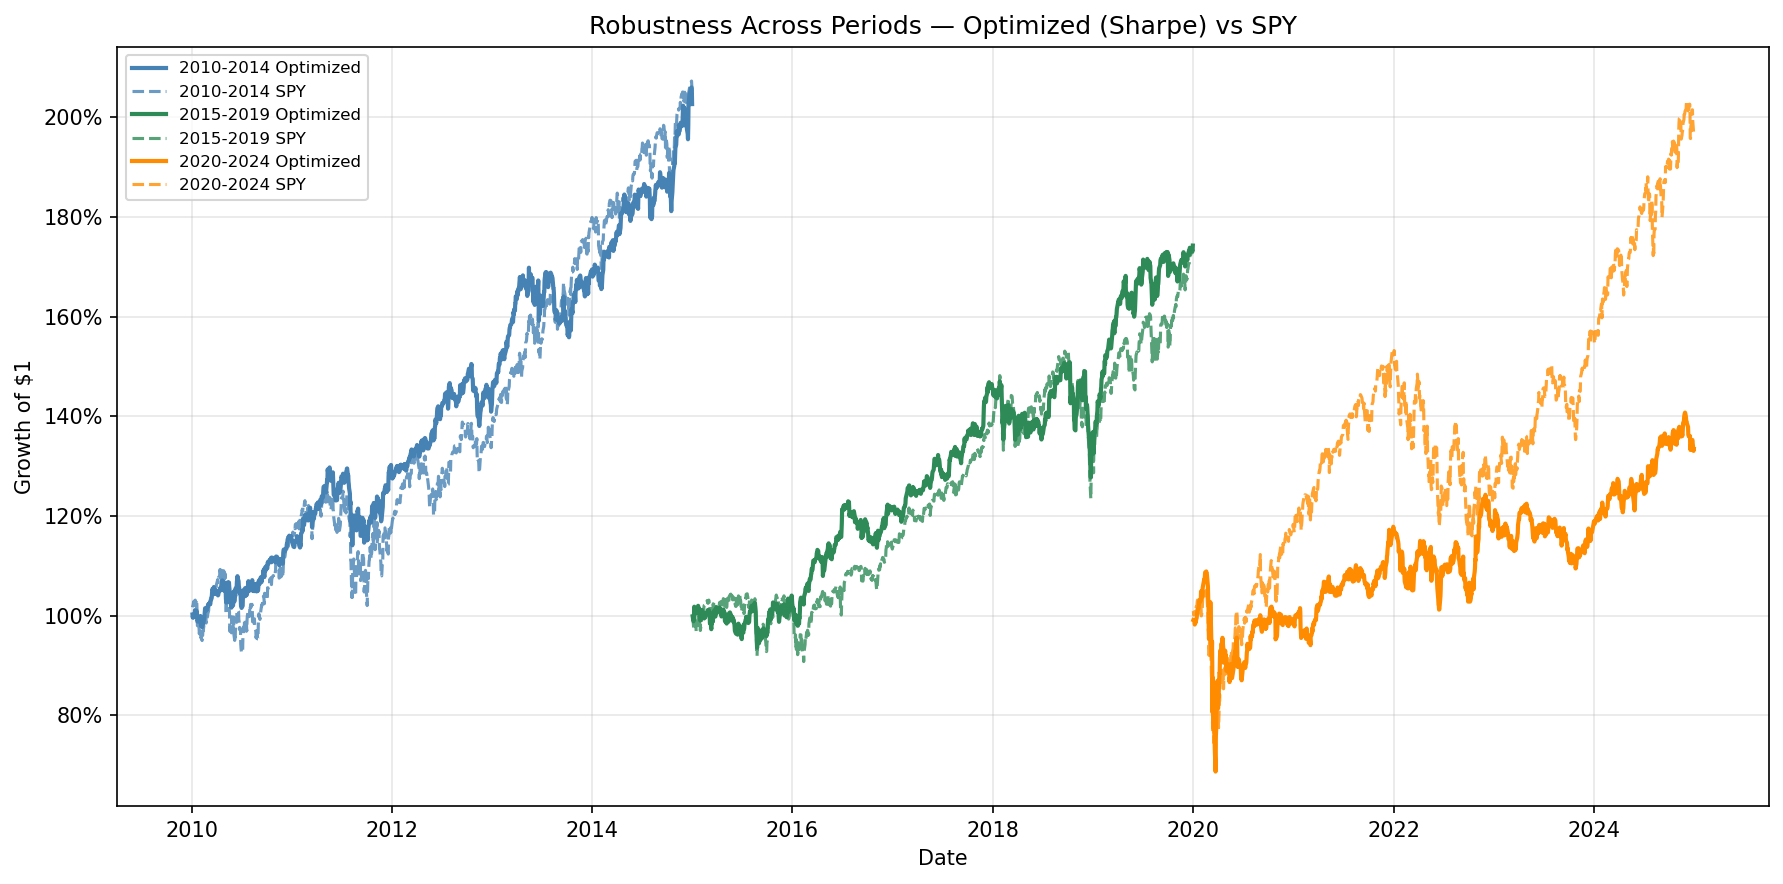
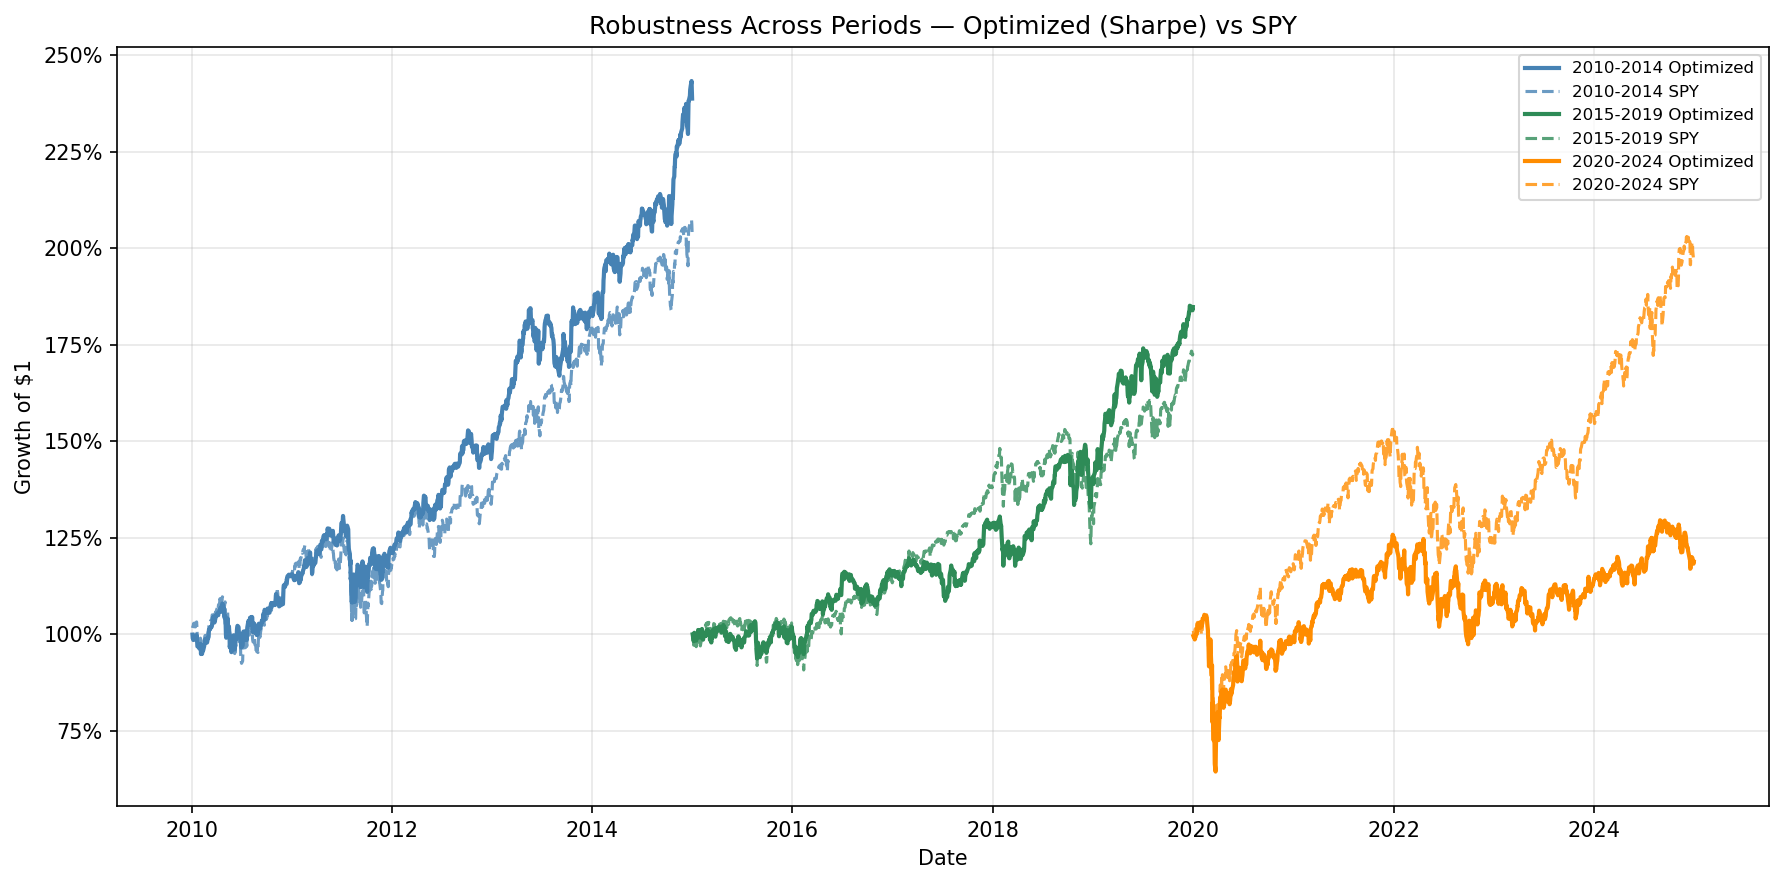
docs: update README with latest results; fix DSR units
- Correct deflated Sharpe to use per-period (daily) SR, not annualized
- Refresh README tables, commentary, citations, and embedded plot
- Update robustness_periods.png from latest six-window run

diff --git a/src/statistics.py b/src/statistics.py
@@ -6,26 +6,52 @@ import numpy as np  # type: ignore[import-untyped]
 EULER_MASCHERONI = 0.5772156649
 
 
-def deflated_sharpe(daily_returns, n_trials, annualization=252):
+def deflated_sharpe(daily_returns, n_trials, sr_trials=None):
     """
     DSR per Bailey & López de Prado (2014).
-    Returns (DSR probability, expected max Sharpe under null).
+
+    All Sharpe quantities are per-period (daily), not annualized. N counts
+    daily observations; SR = mean(r) / std(r, ddof=1).
+
+    Args:
+        daily_returns: Daily return series.
+        n_trials: Number of strategy variants tested (deflation factor).
+        sr_trials: Optional array of per-period Sharpes from those trials.
+            When omitted, Var(SR) is estimated from the return moments of
+            the observed series (single-path Bailey estimator).
+
+    Returns:
+        (DSR probability, expected max Sharpe threshold SR0 in daily units).
     """
     r = np.asarray(daily_returns, dtype=float)
-    if r.std() < 1e-12 or len(r) < 30:
+    n = len(r)
+    if n < 30 or r.std(ddof=1) < 1e-12:
         return float("nan"), float("nan")
 
-    sr_obs = (r.mean() / r.std()) * np.sqrt(annualization)
-    n = len(r)
-    skw = skew(r)
-    krt = kurtosis(r, fisher=False)
+    sr = r.mean() / r.std(ddof=1)
+    g3 = skew(r)
+    g4 = kurtosis(r, fisher=False)
 
-    sr_var = (1 - skw * sr_obs + (krt - 1) / 4 * sr_obs ** 2) / max(n - 1, 1)
-    sr_sd = np.sqrt(max(sr_var, 1e-12))
+    den = np.sqrt(max(1.0 - g3 * sr + ((g4 - 1.0) / 4.0) * sr**2, 1e-12))
 
-    z1 = norm.ppf(1 - 1.0 / max(n_trials, 2))
-    z2 = norm.ppf(1 - 1.0 / (max(n_trials, 2) * np.e))
-    sr_star = sr_sd * ((1 - EULER_MASCHERONI) * z1 + EULER_MASCHERONI * z2)
+    if sr_trials is not None:
+        trials = np.asarray(sr_trials, dtype=float)
+        if len(trials) < 2:
+            return float("nan"), float("nan")
+        var_sr = float(np.var(trials, ddof=1))
+    else:
+        var_sr = (den**2) / max(n - 1, 1)
 
-    dsr = norm.cdf((sr_obs - sr_star) / sr_sd)
-    return float(dsr), float(sr_star)
+    if not np.isfinite(var_sr) or var_sr < 1e-18:
+        return float("nan"), float("nan")
+
+    nt = max(int(n_trials), 2)
+    z1 = norm.ppf(1 - 1.0 / nt)
+    z2 = norm.ppf(1 - 1.0 / (nt * np.e))
+    sr0 = np.sqrt(var_sr) * (
+        (1 - EULER_MASCHERONI) * z1 + EULER_MASCHERONI * z2
+    )
+
+    num = (sr - sr0) * np.sqrt(n - 1)
+    dsr = float(norm.cdf(num / den))
+    return dsr, float(sr0)

diff --git a/README.md b/README.md
@@ -9,18 +9,29 @@ Walk-forward multi-factor portfolio optimizer validated across three independent
 
 ## Headline result
 
-Three non-overlapping five-year OOS windows, independent training data. Sharpe-maximizing objective:
+Three non-overlapping five-year OOS windows, independent training data. Both Sharpe-maximizing and CVaR objectives run per window:
 
-| Period | Strategy Sharpe | SPY Sharpe | Strategy Return | SPY Return | Strategy Max DD |
-|---|---|---|---|---|---|
-| 2010–2014 | **1.31** | 0.98 | 15.2% | 13.4% | -12.0% |
-| 2015–2019 | **0.93** | 0.81 | 11.8% | 11.5% | -15.3% |
-| 2020–2024 | 0.27 | 0.64 | 6.0% | 13.7% | -36.9% |
-| **Aggregate** | mean 0.84, σ 0.43 | — | — | — | — |
+| Period | Objective | Sharpe | DSR | Annual Return | Max DD | Calmar | Δ Sharpe vs SPY (95% CI) | SPY Sharpe |
+| --- | --- | --- | --- | --- | --- | --- | --- | --- |
+| 2010–2014 | Sharpe | 1.32 | 0.890 | 19.0% | -17.2% | 1.11 | [-0.05, 0.80] | 0.98 |
+| 2010–2014 | CVaR | 1.45 | 0.934 | 19.7% | -14.4% | 1.37 | [0.03, 0.91] | 0.98 |
+| 2015–2019 | Sharpe | 0.94 | 0.718 | 13.1% | -10.9% | 1.20 | [-0.51, 0.67] | 0.81 |
+| 2015–2019 | CVaR | 0.85 | 0.650 | 10.9% | -12.3% | 0.89 | [-0.57, 0.58] | 0.81 |
+| 2020–2024 | Sharpe | 0.16 | 0.144 | 3.5% | -38.6% | 0.09 | [-0.98, -0.02] | 0.64 |
+| 2020–2024 | CVaR | 0.42 | 0.316 | 9.1% | -33.3% | 0.27 | [-0.77, 0.31] | 0.64 |
 
-Paired block-bootstrap 95% CIs for Sharpe difference vs SPY contain zero in every period. The 2020–2024 underperformance is consistent with weakening of the low-volatility factor in a regime where index returns concentrated in mega-cap growth (Blitz & van Vliet, 2023). Cross-period Sharpe standard deviation of 0.43 quantifies regime sensitivity explicitly. No parameter tuning was performed between periods.
+![Cumulative returns across the three OOS windows](robustness_periods.png)
 
-See `robustness_periods.png` for cumulative return visualization.
+| Objective | Mean Sharpe | Std | Min | Periods Sharpe > 0 |
+| --- | --- | --- | --- | --- |
+| Sharpe | 0.81 | 0.48 | 0.16 | 3/3 |
+| CVaR | 0.91 | 0.42 | 0.42 | 3/3 |
+
+The CVaR objective is the stronger of the two on average (mean Sharpe 0.91 vs 0.81) and is the only configuration with a statistically significant Sharpe edge over SPY in any window: in 2010–2014 the paired block-bootstrap CI for its Sharpe difference vs SPY is [0.03, 0.91], which excludes zero. That edge does not persist — the CVaR difference CI includes zero in both 2015–2019 and 2020–2024 — so it should be read as regime-dependent, not as a robust structural advantage.
+
+The Sharpe objective beats SPY on point estimate in 2010–2014 (1.32 vs 0.98) and 2015–2019 (0.94 vs 0.81), but both paired CIs include zero, so those gaps are not statistically significant. In 2020–2024 the Sharpe objective significantly underperforms SPY (0.16 vs 0.64; CI [-0.98, -0.02] excludes zero). CVaR also trails SPY in that window but not significantly (CI [-0.77, 0.31] includes zero).
+
+Deflated Sharpe tracks strategy quality across windows (0.144 to 0.934); the weak 2020–2024 Sharpe run correctly scores 0.144. The 2020–2024 underperformance is consistent with weakening of the low-volatility factor in a regime where index returns concentrated in mega-cap growth (Blitz, van Vliet, & Baltussen, 2019). No parameter tuning was performed between periods.
 
 ---
 
@@ -39,7 +50,7 @@ Rigorous walk-forward portfolio construction with:
 
 ## Methodology
 
-**Universe.** S&P 500 historical constituents, top 50 by training-window liquidity proxy at each quarterly rebalance.
+**Universe.** S&P 500 historical constituents (898 union tickers, 659 with usable price history, 4,529 trading days, 2007–2025), top 50 by data coverage at each quarterly rebalance.
 
 **Expected returns.** Fama-French 5 + Carhart UMD. HAC-robust OLS on rolling 24-month windows. Long-run factor premia from Ken French data. In-sample alpha excluded (does not persist OOS; McLean & Pontiff, 2016).
 
@@ -104,9 +115,10 @@ Runtime ~15–20 minutes (six walk-forward backtests, FF + UMD factor downloads 
 
 1. Fama, E. F., & French, K. R. (2015). A five-factor asset pricing model. *Journal of Financial Economics*, 116(1), 1–22.
 2. Carhart, M. M. (1997). On persistence in mutual fund performance. *Journal of Finance*, 52(1), 57–82.
-3. Rockafellar, R. T., & Uryasev, S. (2000). Optimization of conditional value-at-risk. *Journal of Risk*, 2, 21–42.
-4. Bailey, D. H., & López de Prado, M. (2014). The deflated Sharpe ratio. *Journal of Portfolio Management*, 40(5), 94–107.
-5. Blitz, D., & van Vliet, P. (2023). The volatility effect revisited. *Journal of Portfolio Management*, 50(2).
+3. Rockafellar, R. T., & Uryasev, S. (2000). Optimization of conditional value-at-risk. *Journal of Risk*, 2(3), 21–41.
+4. Bailey, D. H., & López de Prado, M. (2014). The deflated Sharpe ratio: Correcting for selection bias, backtest overfitting, and non-normality. *Journal of Portfolio Management*, 40(5), 94–107.
+5. Blitz, D., van Vliet, P., & Baltussen, G. (2019). The volatility effect revisited. *Journal of Portfolio Management*, 46(2).
+6. McLean, R. D., & Pontiff, J. (2016). Does academic research destroy stock return predictability? *Journal of Finance*, 71(1), 5–32.
 
 ---
 
